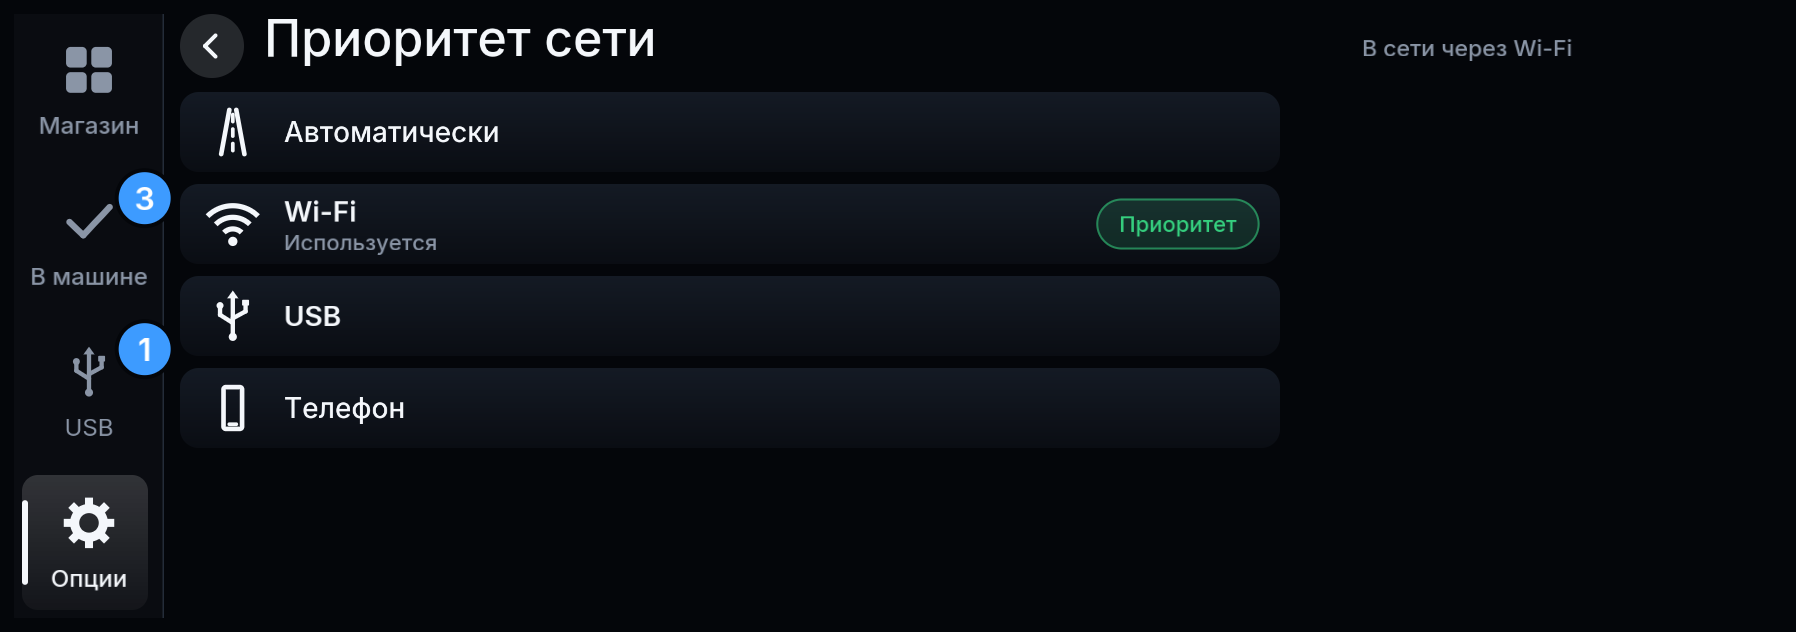
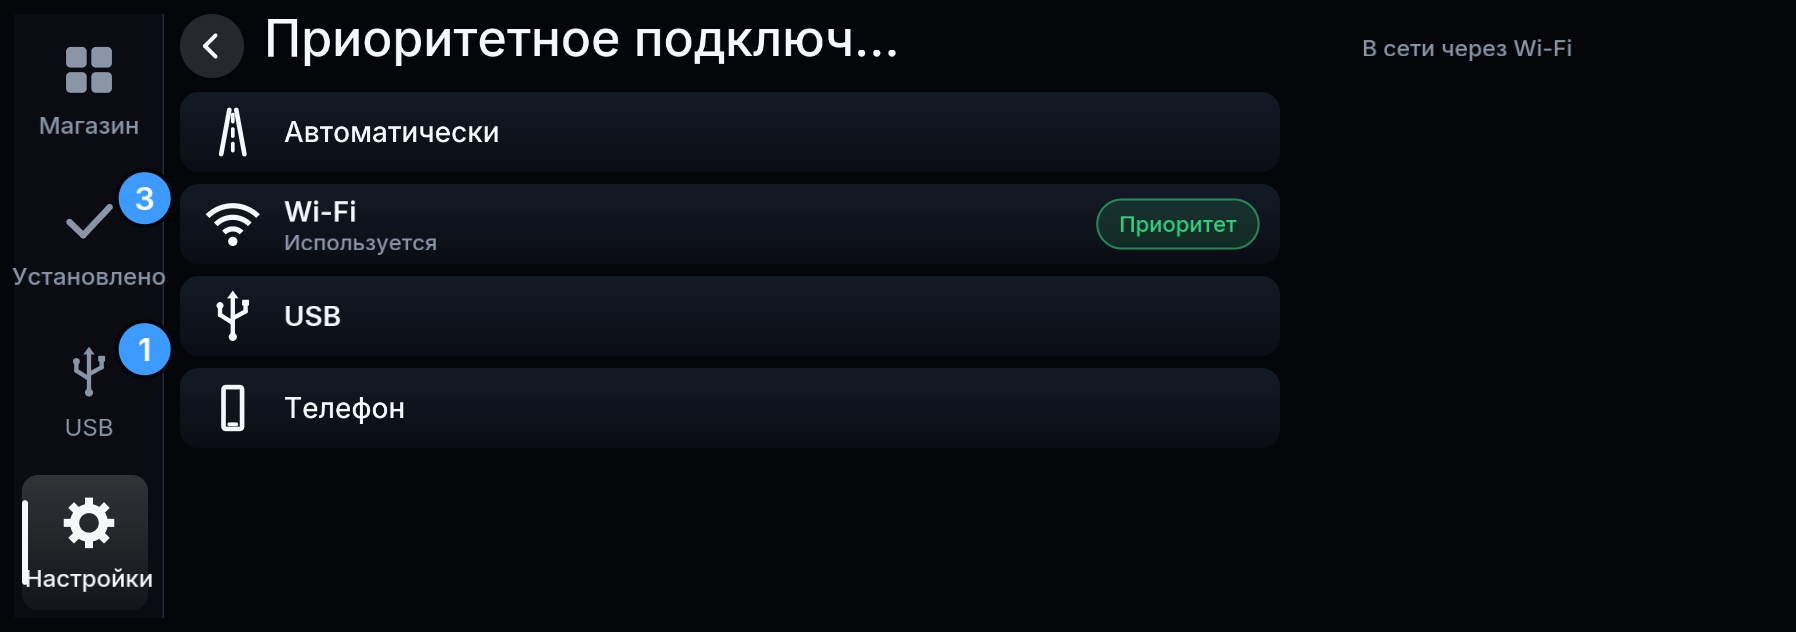
Store Russian: natural wording, fitted to where each string is used
Installed is Установлено (review), restart is перезагрузка, head-unit
tools are системные компоненты, statuses read as statuses rather than
commands, and genders agree with what they describe (Wi-Fi, сеть,
доступ). PR screenshots re-rendered (removed before merge).

Changed region(s): [[0.2806, 0.0301, 0.4989, 0.0902], [0.0, 0.9019, 0.0935, 0.932], [0.0, 0.4209, 0.0935, 0.4509]]

diff --git a/apps/robertn_store/src/locales.js b/apps/robertn_store/src/locales.js
@@ -10,10 +10,10 @@ module.exports = [
   "font": "cyrillic",
   "words": {
    "Store": "Магазин",
-   "Installed": "В машине",
-   "Settings": "Опции",
+   "Installed": "Установлено",
+   "Settings": "Настройки",
    "Apps": "Приложения",
-   "Head-unit tools": "Системные инструменты",
+   "Head-unit tools": "Системные компоненты",
    "Sources": "Источники",
    "Source": "Источник",
    "Channel": "Канал обновлений",
@@ -22,16 +22,16 @@ module.exports = [
    "ACCESS": "ДОСТУП",
    "APPS": "ПРИЛОЖЕНИЯ",
    "HEAD UNIT": "ГОЛОВНОЕ УСТРОЙСТВО",
-   "HEAD-UNIT TOOLS": "СИСТЕМНЫЕ ИНСТРУМЕНТЫ",
+   "HEAD-UNIT TOOLS": "СИСТЕМНЫЕ КОМПОНЕНТЫ",
    "SOURCES": "ИСТОЧНИКИ",
    "Accounts": "Аккаунты",
    "Add source": "Добавить источник",
    "Add token": "Добавить токен",
    "Add token failed: {0}": "Не удалось добавить токен: {0}",
-   "Added {0}": "Добавлено: {0}",
-   "All,Apps,Tools": "Все,Прил.,Инстр.",
-   "App": "Прил.",
-   "App privacy patch not in effect": "Патч конфиденциальности приложений не действует",
+   "Added {0}": "Аккаунт {0} добавлен",
+   "All,Apps,Tools": "Все,Прил.,Система",
+   "App": "Приложение",
+   "App privacy patch not in effect": "Патч приватности приложений не активен",
    "At the next start": "При следующем запуске",
    "Automatic": "Автоматически",
    "Available": "Доступно",
@@ -39,22 +39,22 @@ module.exports = [
    "Branch {0}": "Ветка {0}",
    "Building": "Сборка",
    "Cancel": "Отмена",
-   "Check failed: {0}": "Ошибка проверки: {0}",
+   "Check failed: {0}": "Не удалось проверить: {0}",
    "Check for updates": "Проверить обновления",
    "Check now": "Проверить",
    "Checking": "Проверка",
    "Checking for updates": "Проверка обновлений",
    "Checking token": "Проверка токена",
    "Checking {0}": "Проверка {0}",
-   "Code expired": "Срок действия кода истёк",
+   "Code expired": "Код устарел",
    "Commit {0}": "Коммит {0}",
-   "Connect": "Подключить",
-   "Connected": "Подключено",
-   "Connected{0}": "Подключено{0}",
+   "Connect": "Подключиться",
+   "Connected": "Подключена",
+   "Connected{0}": "Подключён{0}",
    "Connecting": "Подключение",
    "Connecting{0}": "Подключение{0}",
-   "Default branch": "Основная ветка",
-   "Don't use Wi-Fi": "Не использовать Wi-Fi",
+   "Default branch": "Ветка по умолчанию",
+   "Don't use Wi-Fi": "Выключить Wi-Fi",
    "Downloading": "Загрузка",
    "Downloading {0} %": "Загрузка {0} %",
    "Error": "Ошибка",
@@ -64,38 +64,38 @@ module.exports = [
    "For {0}": "Для {0}",
    "Forget": "Забыть",
    "Forget network?": "Забыть сеть?",
-   "GitHub limit reached. Try later or sign in.": "Достигнут лимит GitHub. Повторите позже или войдите.",
+   "GitHub limit reached. Try later or sign in.": "Превышен лимит запросов GitHub. Повторите позже или войдите.",
    "GitHub token": "Токен GitHub",
    "Good": "Хороший",
    "In use": "Используется",
    "Install": "Установить",
    "Install on GitHub": "Установить на GitHub",
    "Install {0}": "Установить {0}",
-   "Installed {0}": "В машине {0}",
+   "Installed {0}": "Установлено {0}",
    "Installing": "Установка",
-   "No USB stick": "Нет USB-накопителя",
-   "No apps installed": "Приложения не установлены",
-   "No networks": "Нет сетей",
+   "No USB stick": "USB-накопитель не подключён",
+   "No apps installed": "Нет установленных приложений",
+   "No networks": "Сети не найдены",
    "None": "Нет",
-   "Not connected": "Не подключено",
-   "Not for this head unit": "Не для этого устройства",
-   "Not found or private": "Не найден или закрыт",
-   "Not installable": "Нельзя установить",
+   "Not connected": "Не подключён",
+   "Not for this head unit": "Несовместимо с этим устройством",
+   "Not found or private": "Не найден или приватный",
+   "Not installable": "Установка невозможна",
    "Not listed": "Нет в каталоге",
-   "Not owner/repo or https://host/path: {0}": "Не owner/repo и не https://host/path: {0}",
-   "Not used": "Не используется",
+   "Not owner/repo or https://host/path: {0}": "Нужно owner/repo или https://host/path: {0}",
+   "Not used": "Выключен",
    "Nothing here": "Здесь пусто",
-   "Off": "Выкл.",
+   "Off": "Выключен",
    "Offline": "Нет сети",
    "Offline, {0}": "Нет сети, {0}",
-   "On": "Вкл.",
+   "On": "Включён",
    "Online": "В сети",
    "Online{0}": "В сети{0}",
    "Open": "Открытая",
    "Password": "Пароль",
    "Phone": "Телефон",
    "Phone access": "Доступ с телефона",
-   "Preferred connection": "Приоритет сети",
+   "Preferred connection": "Приоритетное подключение",
    "Preferred": "Приоритет",
    "Preferred: {0}": "Приоритет: {0}",
    "Rejected": "Отклонён",
@@ -104,62 +104,62 @@ module.exports = [
    "Remove account?": "Удалить аккаунт?",
    "Remove source?": "Удалить источник?",
    "Remove {0} {1}?": "Удалить {0} {1}?",
-   "Undo update": "Отменить обновление",
-   "Back to {0} {1}?": "Вернуть {0} {1}?",
+   "Undo update": "Откатить обновление",
+   "Back to {0} {1}?": "Откатить {0} до {1}?",
    "Remove?": "Удалить?",
    "Removing": "Удаление",
    "Renderer {0}": "Рендерер {0}",
-   "Restart": "Перезапустить",
-   "Restart failed: {0}": "Не удалось перезапустить: {0}",
-   "Restart head unit": "Перезапустить головное устройство",
-   "Restart head unit?": "Перезапустить головное устройство?",
-   "Restart now": "Перезапустить сейчас",
-   "Restart pending": "Ожидает перезапуска",
-   "Restart the head unit to finish setup": "Для завершения нужен перезапуск",
-   "Restarting": "Перезапуск",
+   "Restart": "Перезагрузить",
+   "Restart failed: {0}": "Не удалось перезагрузить: {0}",
+   "Restart head unit": "Перезагрузить головное устройство",
+   "Restart head unit?": "Перезагрузить головное устройство?",
+   "Restart now": "Перезагрузить сейчас",
+   "Restart pending": "Нужна перезагрузка",
+   "Restart the head unit to finish setup": "Перезагрузите устройство, чтобы завершить настройку",
+   "Restarting": "Перезагрузка",
    "Saved": "Сохранена",
-   "Saved · not in range": "Сохранена · вне зоны",
+   "Saved · not in range": "Сохранена · вне зоны действия",
    "Scan": "Поиск",
    "Scanning": "Поиск сетей",
    "Secured": "Защищённая",
-   "Sign in": "Войти",
+   "Sign in": "Нужен вход",
    "Sign in with GitHub": "Войти через GitHub",
    "Sign-in failed": "Не удалось войти",
    "Sign-in failed: {0}": "Не удалось войти: {0}",
    "Signed in": "Вход выполнен",
-   "Starting": "Запуск",
+   "Starting": "Подготовка",
    "Store {0}": "Магазин {0}",
    "Strong": "Сильный",
    "Tags": "Теги",
    "Text entry failed: {0}": "Ошибка ввода текста: {0}",
-   "Tool": "Инстр.",
+   "Tool": "Системный",
    "Try again": "Повторить",
-   "Unavailable": "Недоступно",
+   "Unavailable": "Недоступен",
    "Unused": "Не используется",
-   "Up to date": "Всё обновлено",
+   "Up to date": "Обновлений нет",
    "Update all ({0})": "Обновить все ({0})",
    "Update to {0}": "Обновить до {0}",
-   "Update {0}": "Обновить {0}",
-   "Updater not running": "Апдейтер не запущен",
-   "Updater {0}": "Апдейтер {0}",
-   "Use Wi-Fi": "Использовать Wi-Fi",
+   "Update {0}": "Обновление {0}",
+   "Updater not running": "Служба обновлений не запущена",
+   "Updater {0}": "Служба обновлений {0}",
+   "Use Wi-Fi": "Включить Wi-Fi",
    "Verifying": "Проверка",
    "Version {0}": "Версия {0}",
    "Waiting": "Ожидание",
    "Waiting for sign-in": "Ожидание входа",
    "Weak": "Слабый",
-   "A Wi-Fi password is 8 to 63 letters, digits and symbols": "Пароль Wi-Fi — от 8 до 63 букв, цифр и символов",
-   " · at least {0} characters": " · не менее {0} символов",
+   "A Wi-Fi password is 8 to 63 letters, digits and symbols": "Пароль Wi-Fi: от 8 до 63 символов",
+   " · at least {0} characters": " · минимум {0} символов",
    "{0} accounts": "Аккаунтов: {0}",
-   "checked {0}": "проверено {0}",
-   "not checked yet": "ещё не проверено",
-   "{0} failed: {1}": "{0} — ошибка: {1}",
+   "checked {0}": "проверено в {0}",
+   "not checked yet": "ещё не проверялось",
+   "{0} failed: {1}": "Ошибка «{0}»: {1}",
    "by {0}": "автор: {0}",
-   "from {0}": "из {0}",
+   "from {0}": "источник: {0}",
    "{0} of {1}": "{0} из {1}",
    "{0} through {1}": "{0} через {1}",
    "Update": "Обновить",
-   " · tool": " · инструмент",
+   " · tool": " · системный",
    " and ": " и ",
    "{0} update": "Обновлений: {0}",
    "{0} updates": "Обновлений: {0}",
@@ -167,8 +167,8 @@ module.exports = [
    "{0} sources": "Источников: {0}",
    "{0} app": "Приложений: {0}",
    "{0} apps": "Приложений: {0}",
-   "{0} tool": "Инструментов: {0}",
-   "{0} tools": "Инструментов: {0}",
+   "{0} tool": "Системных: {0}",
+   "{0} tools": "Системных: {0}",
    "{0} package": "Пакетов: {0}",
    "{0} packages": "Пакетов: {0}",
    "{0} component": "Компонентов: {0}",
